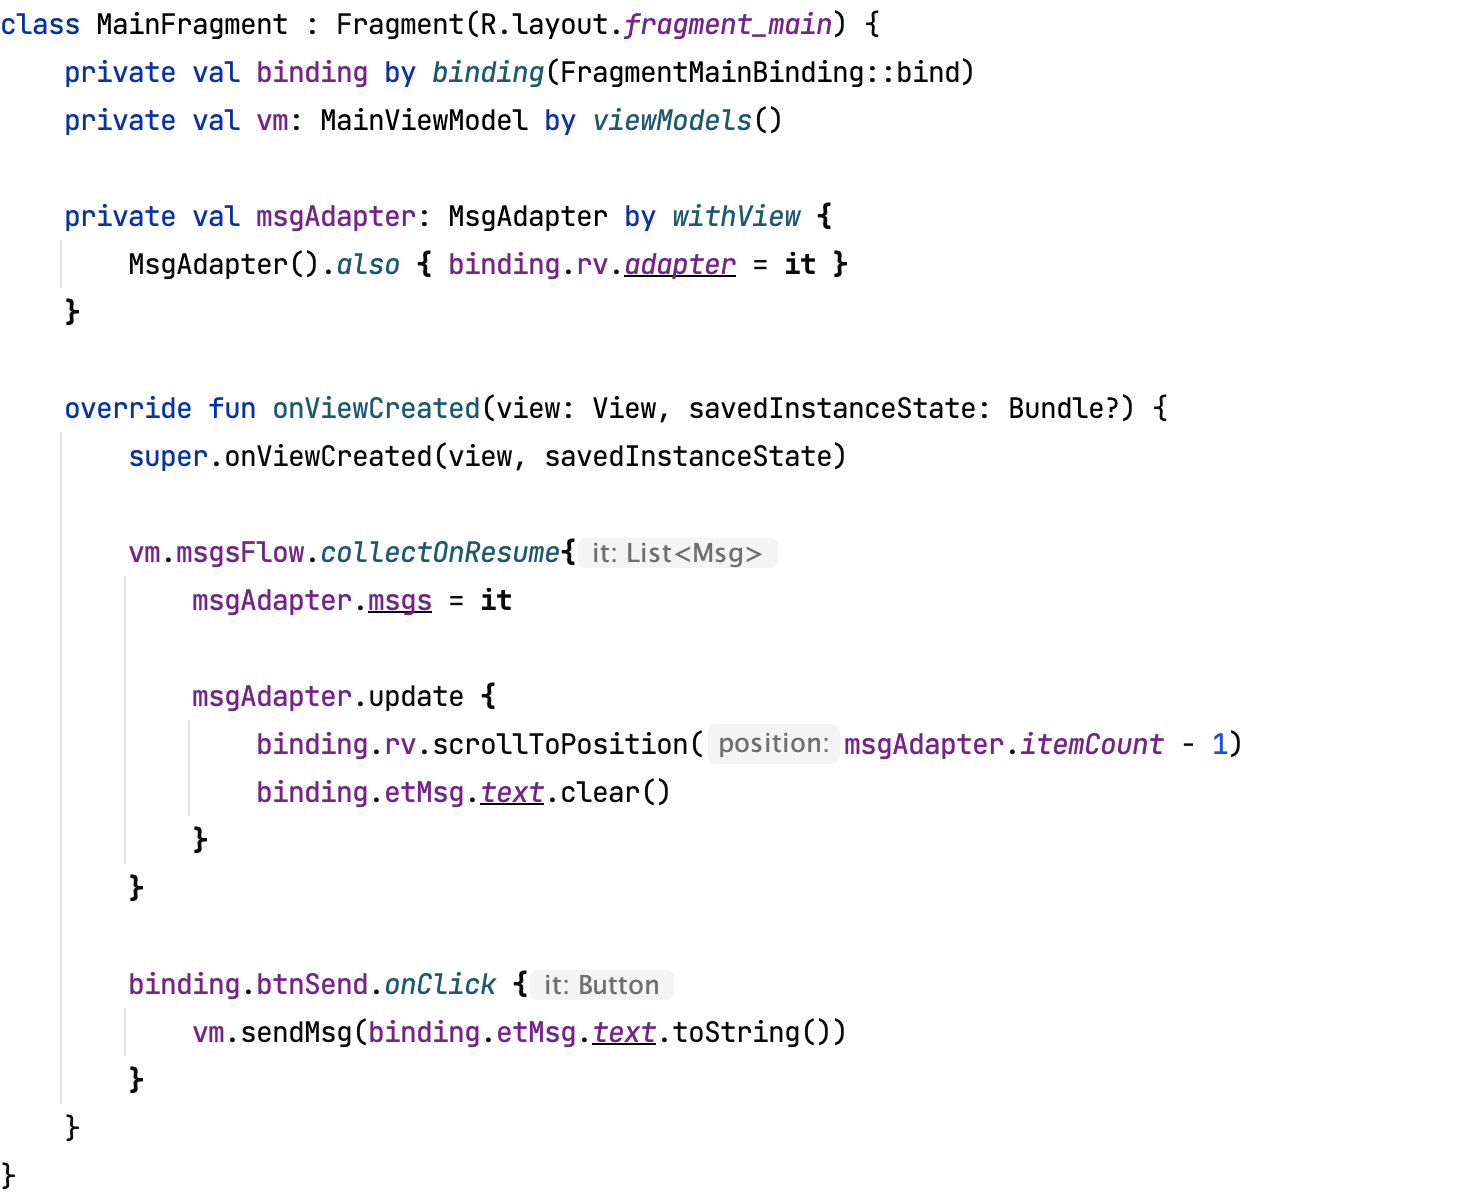
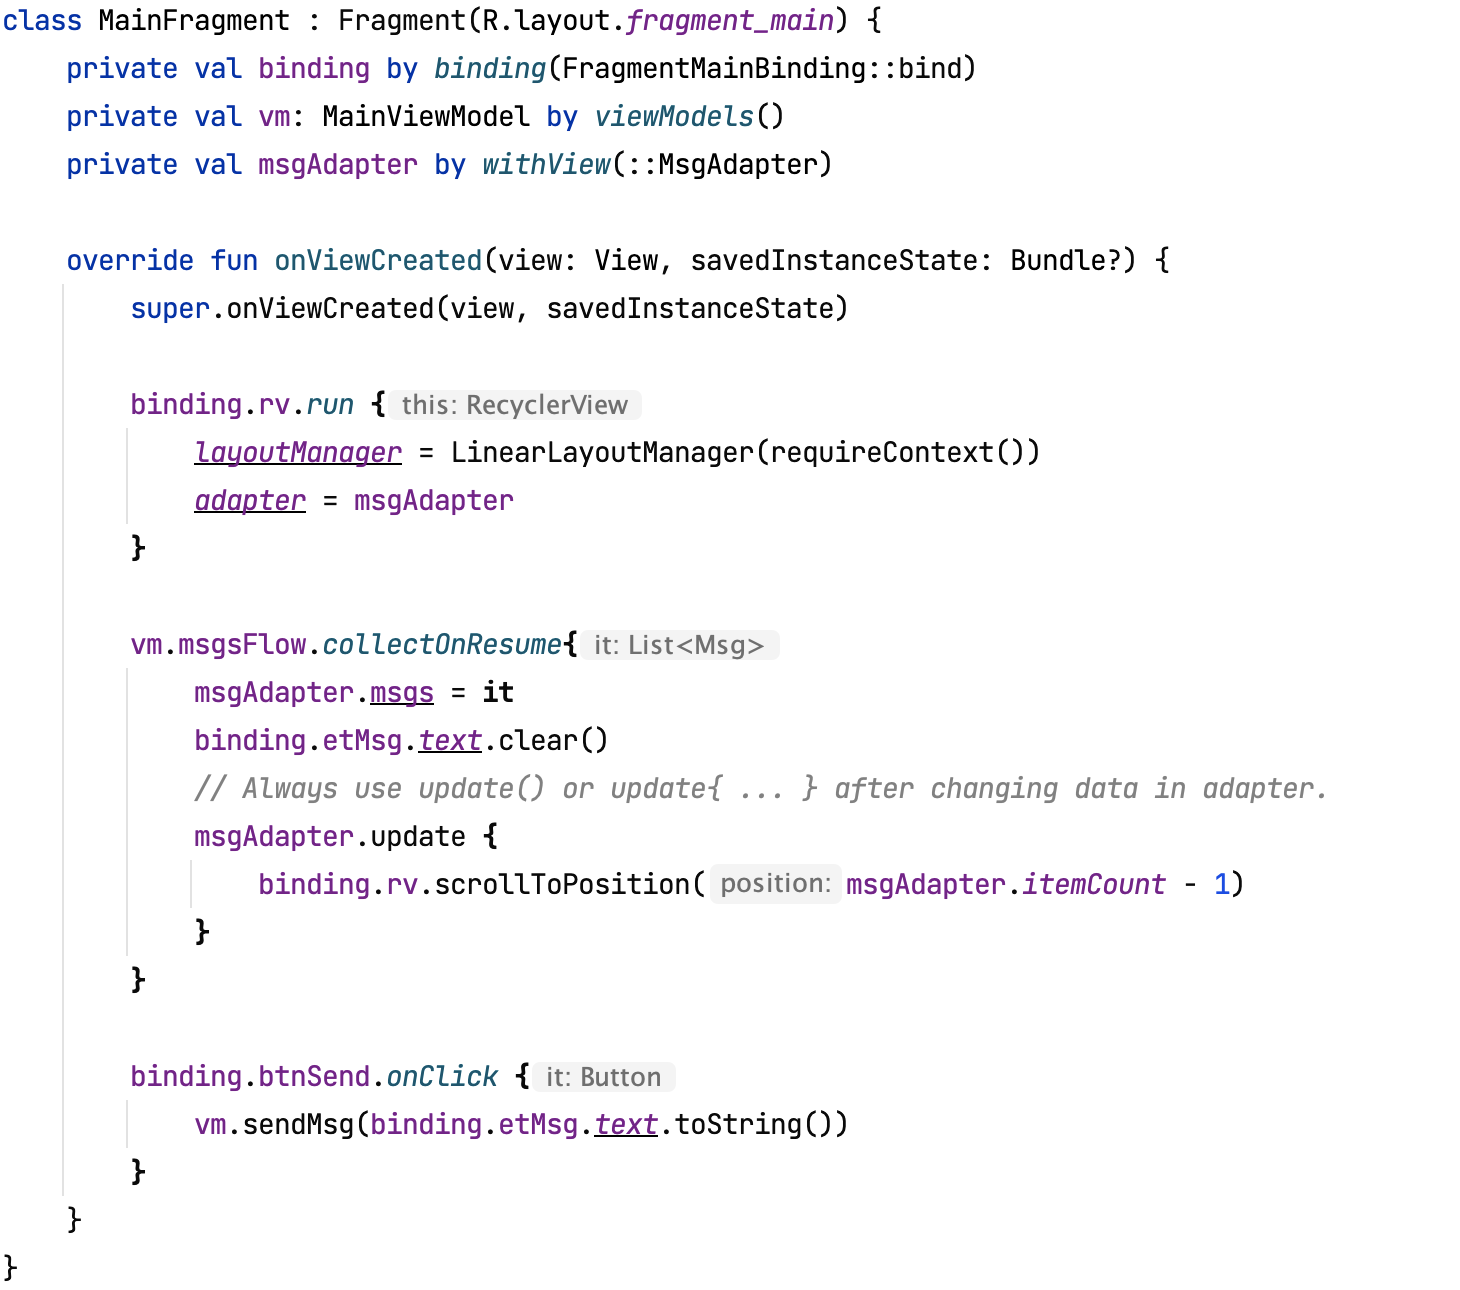
+

diff --git a/content/docs/android/util-view/_index.md b/content/docs/android/util-view/_index.md
@@ -74,11 +74,9 @@ When in `ComponentActivity`, it's built after `onCreate` or when you call it in 
 When in `Fragment`, it is built after `onStart` or when you call it before `onStart`,  
 and destroyed when `onDestroyView`.
 
-Usage sample in `ComponentActivity`/`Fragment`:
+Take the example of declaring a nested view in `ComponentActivity`/`Fragment ViewBinding`:
 ```kotlin
-val adapter by withView{ 
-    Adapter().also{ binding.recyclerview.adaper = it } 
-}
+val recyclerView by withView{ binding.content.recyclerView }
 ```
 It could be also `mutable`. 
 ```kotlin
@@ -88,6 +86,9 @@ var x by withView{ ... }
 # KRecyclerViewAdapter
 ## Core usage
 {{< mp4 src=recyclerview width=250 >}} 
+{{< hint info >}}
+The reply which appears one second later is out of simulation rather than bad performance.
+{{< /hint >}}
 
 {{< codeImg msg.png >}}
 
@@ -101,9 +102,6 @@ The function `binding` is from {{< newTab "another library" "https://dylancaicod
 
 `KRecyclerViewAdapter` is not bound to `KFragment` but usable in general `Activity`/`Fragment`.
 And you could replace `withView`, `collectOnResume`, and `onClick` in above display.
-
-As for the required `layoutManager`, I prefer putting it in `xml`.
-{{< codeImg recyclerview_layoutManger.png >}}
 
 ## update
 {{< codeImg recyclerview_update_notify.png >}}
